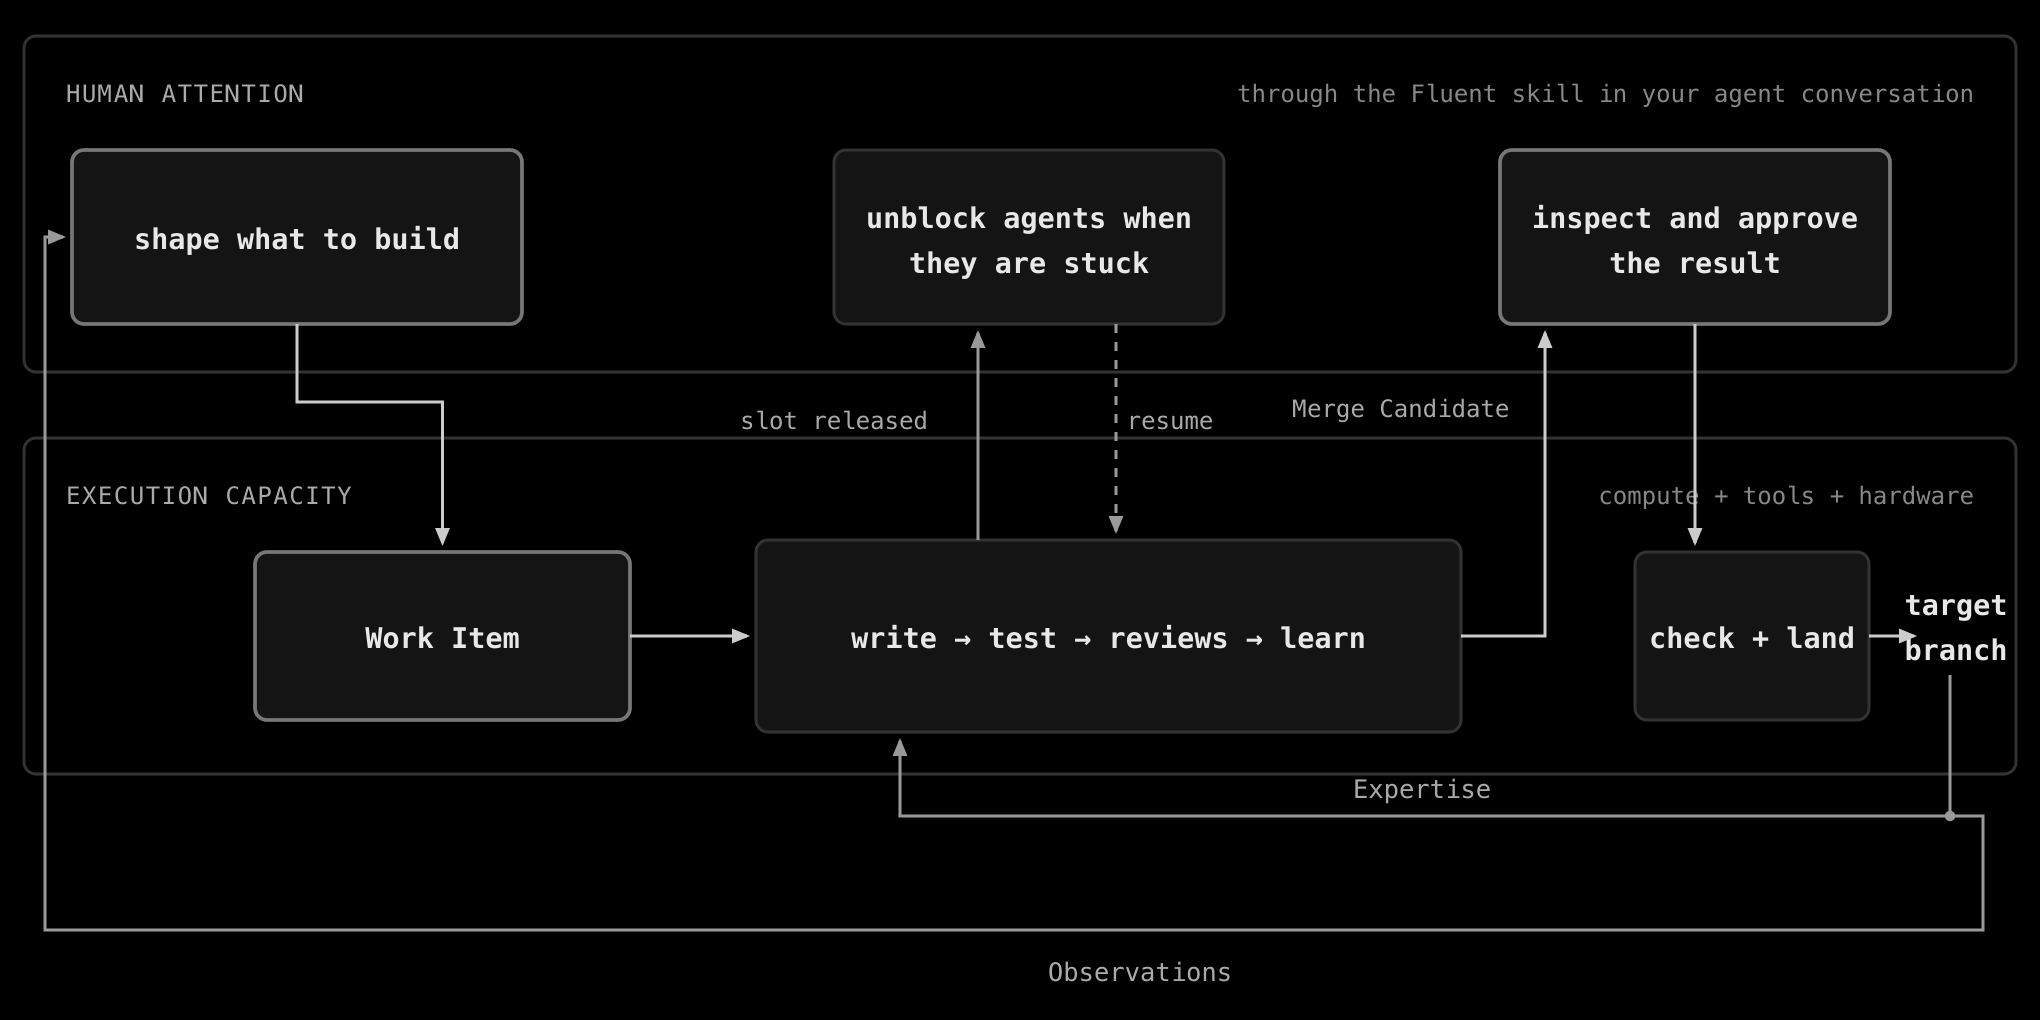
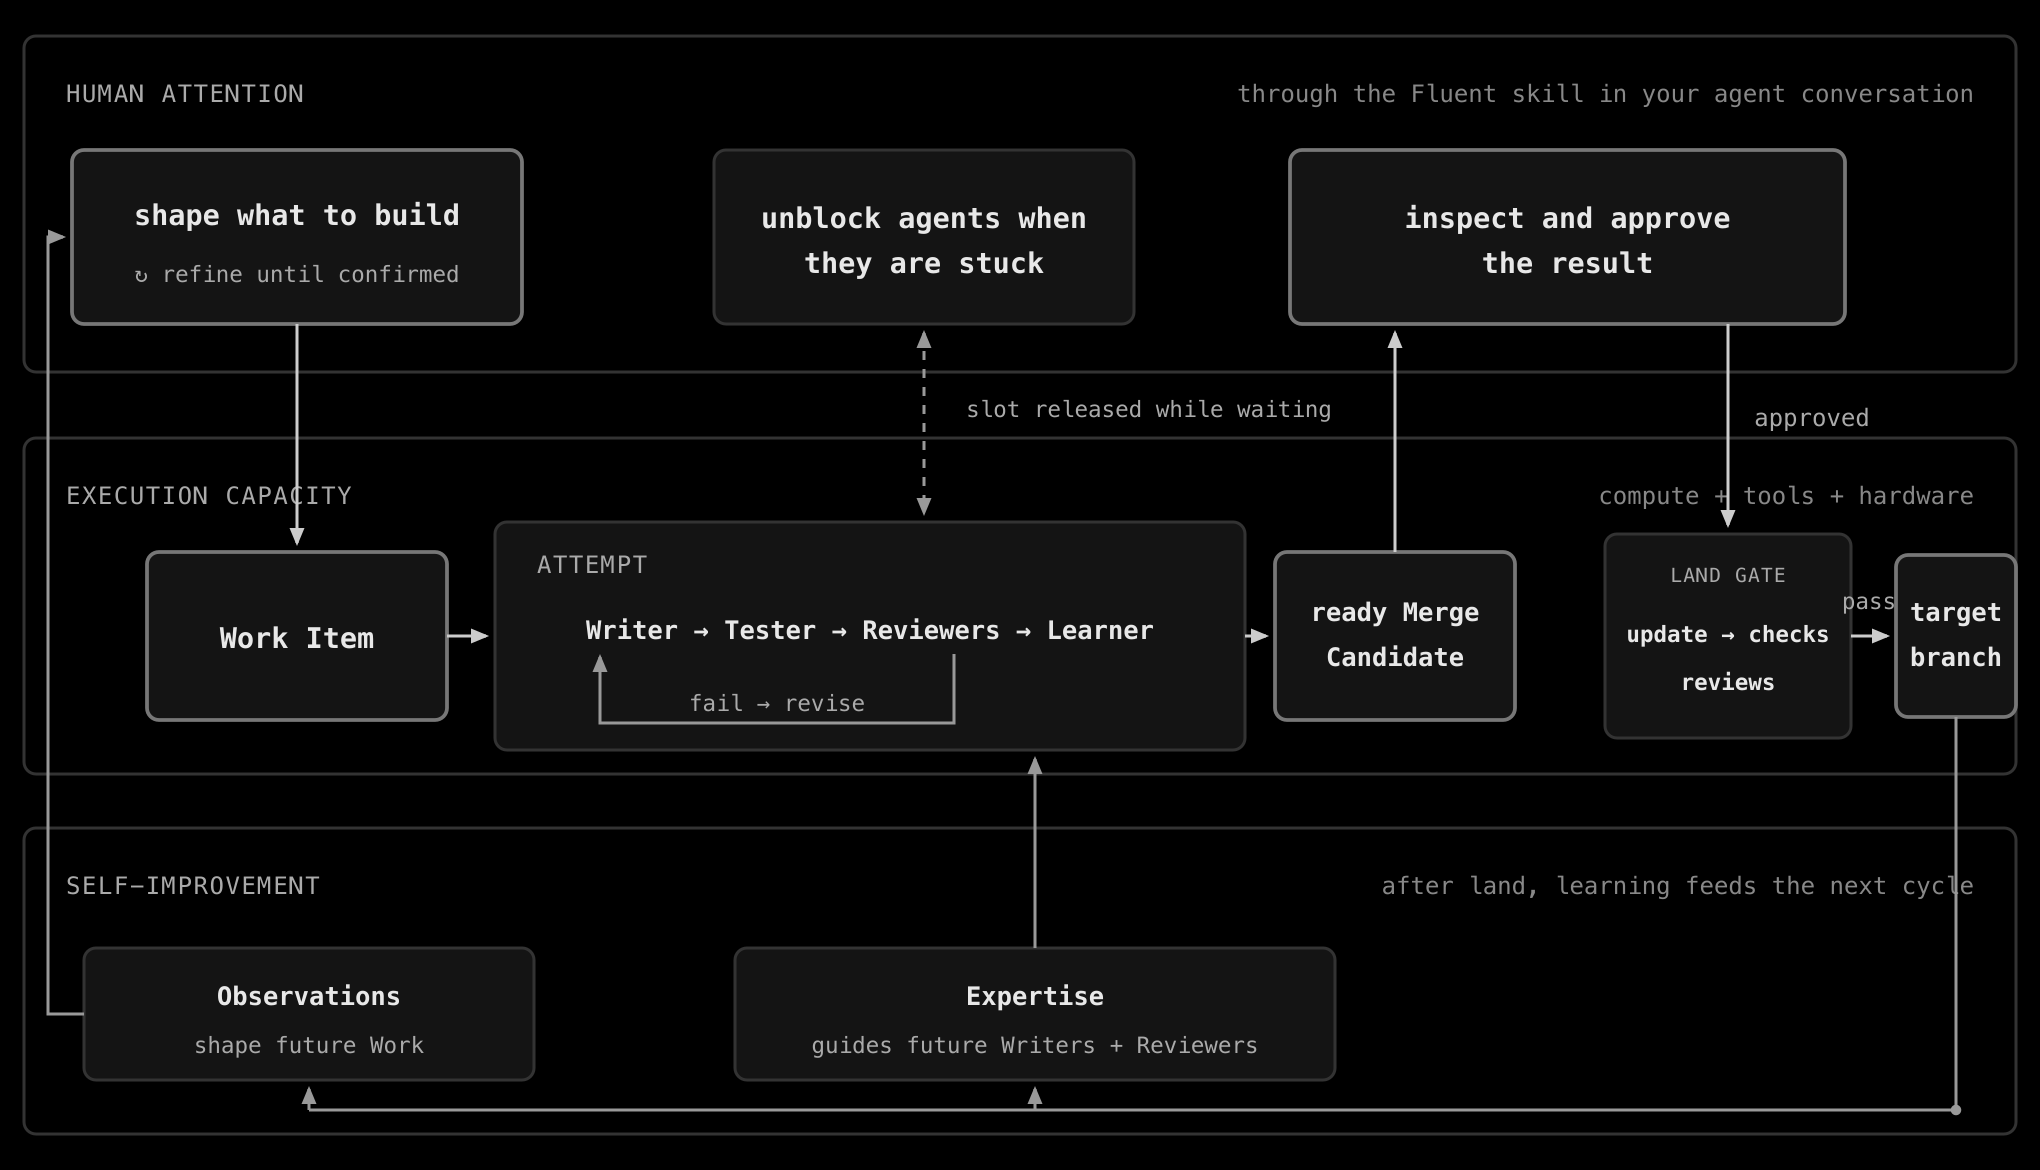
Clarify the overall workflow loops

diff --git a/README.md b/README.md
@@ -8,7 +8,7 @@ You use Fluent by chatting with Claude Code, Codex, or another coding agent that
   <picture>
     <source media="(prefers-color-scheme: dark)" srcset=".github/assets/fluent-overall-flow-dark.png">
     <source media="(prefers-color-scheme: light)" srcset=".github/assets/fluent-overall-flow-light.png">
-    <img alt="Fluent separates human attention from execution capacity. You shape Work by chatting with an agent that has the Fluent skill. Execution-ready Work Items wait to run, then Fluent writes, tests, reviews, and learns. Durable questions and ready candidates wait for a person without occupying an execution slot. Accepted candidates pass the land gate, while Observations and Expertise feed future Work." src=".github/assets/fluent-overall-flow-light.png" width="100%">
+    <img alt="Fluent separates human attention from execution capacity. In a conversation with an agent carrying the Fluent skill, you iteratively shape a Work Item. An Attempt runs Writer, Tester, Reviewers, and Learner; reviewer findings return to the Writer, and questions pause for human help without occupying an execution slot. You inspect and approve the ready Merge Candidate before a separate land gate updates, checks, reviews, and lands it. After land, Observations shape future Work and Expertise guides future Writers and Reviewers." src=".github/assets/fluent-overall-flow-light.png" width="100%">
   </picture>
 </p>
 
